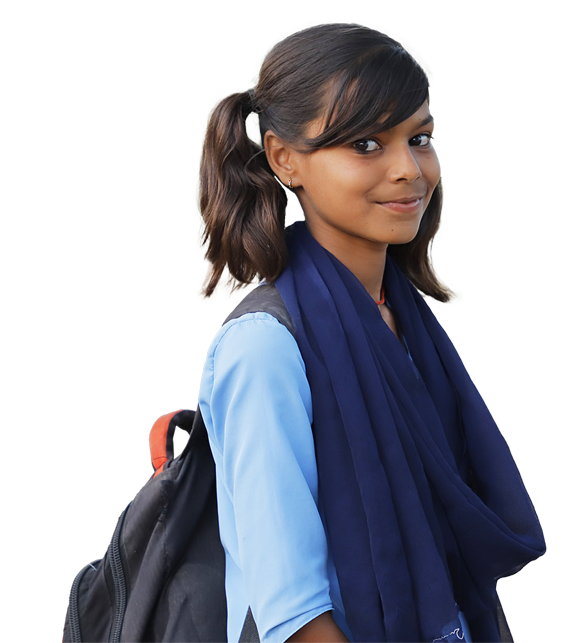
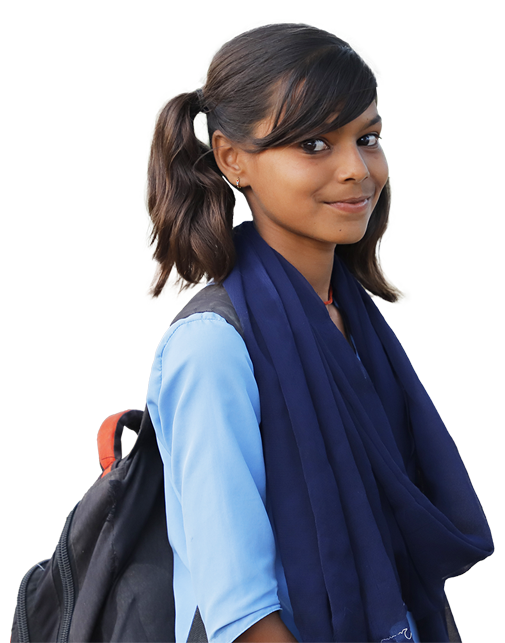
journey to livelihood images

diff --git a/src/components/Home/JourneyStepper.jsx b/src/components/Home/JourneyStepper.jsx
@@ -18,7 +18,7 @@ const steps = [
     description:
       "Agency (especially for girls), resilience, problem solving, gender equality, and career aspirations",
     age: "12 to 18 Yrs.",
-    image: "/ngo-images/approach2.png",
+    image: "/ngo-images/approach1.png",
   },
   {
     id: 3,
@@ -27,7 +27,7 @@ const steps = [
     description:
       "Career awareness, digital/financial literacy, placement and retention",
     age: "18 to 25 Yrs.",
-    image: "/ngo-images/approach2.png",
+    image: "/ngo-images/approach5.png",
   },
   {
     id: 4,
@@ -36,7 +36,7 @@ const steps = [
     description:
       "Increased job satisfaction and performance, and sustainable income",
     age: "18 to 25 Yrs.",
-    image: "/ngo-images/approach2.png",
+    image: "/ngo-images/approach3.png",
   },
   {
     id: 5,
@@ -45,7 +45,7 @@ const steps = [
     description:
       "Improved business acumen, launch of sustainable enterprises",
     age: "+25 Yrs.",
-    image: "/ngo-images/approach2.png",
+    image: "/ngo-images/approach4.png",
   },
 ];
 
